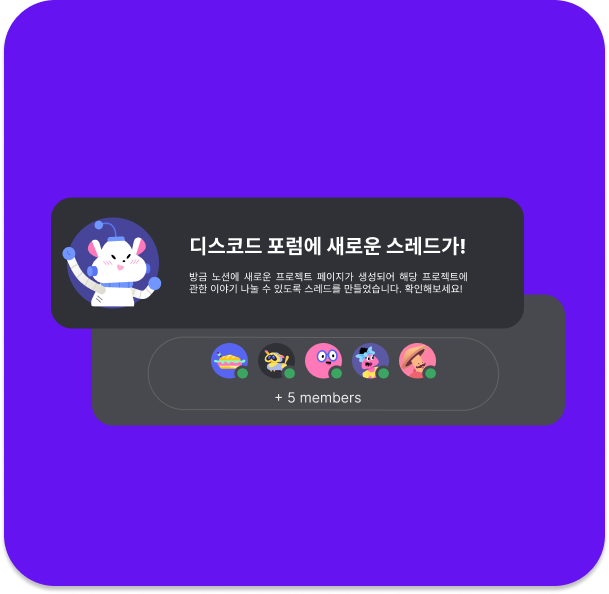
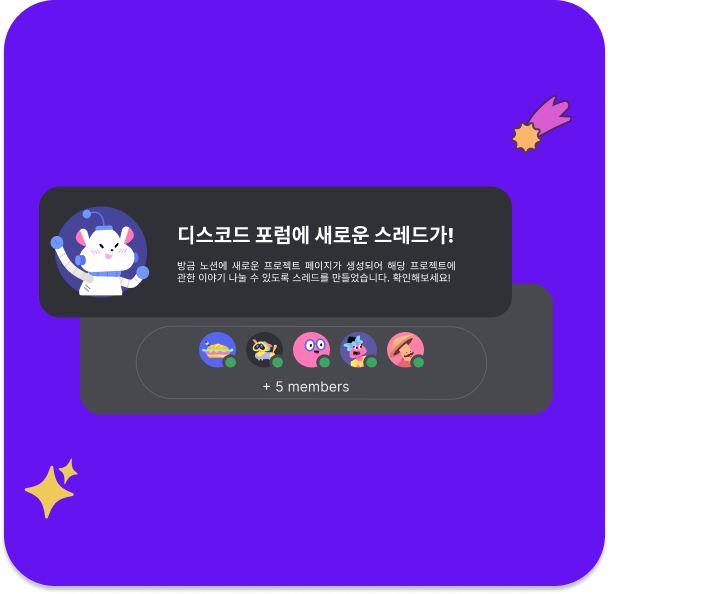
기능소개 이미지 1,2,3 수정

diff --git a/backend/web/pages/index.html b/backend/web/pages/index.html
@@ -145,7 +145,7 @@
                 </p>
             </div>
             <div class="feature-image">
-                <img src="/static/img/second-features.png" alt="AI 분석 이미지"/>
+                <img src="/static/img/third-features.png" alt="AI 분석 이미지"/>
             </div>
         </div>
     </div>
